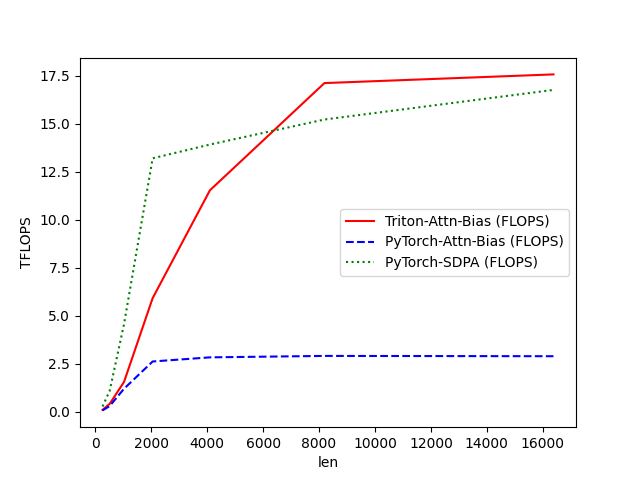
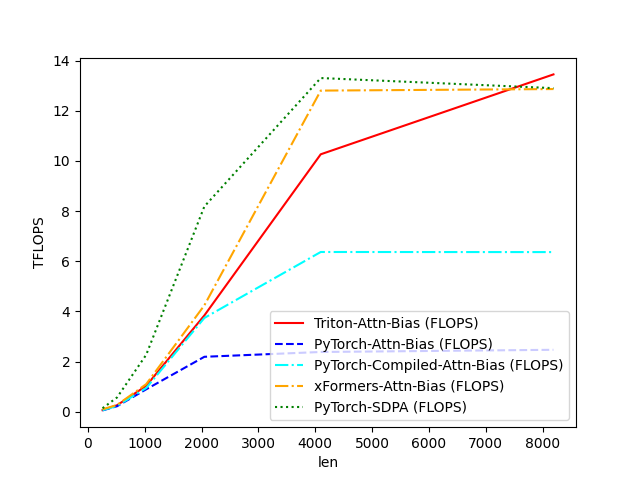
Add benchmarks for PyTorch compiled and xFormers

diff --git a/results.html b/results.html
@@ -1,2 +1,4 @@
 <html><body>
 <image src="attention-comparison-batch2-head4-d32-fwd.png"/>
+<image src="attention-comparison-batch2-head4-d32-bwd.png"/>
+</body></html>

diff --git a/main.py b/main.py
@@ -12,7 +12,8 @@ import torch
 import triton
 
 from config import test_configs
-from attention_func import attention_triton, attention_torch, attention_sdpa
+from attention_func import attention_triton, attention_torch, attention_torch_compiled, attention_sdpa, \
+    attention_xformers
 
 
 @triton.testing.perf_report(test_configs)
@@ -74,6 +75,28 @@ def bench_attention_comparison(BATCH, H, len, HEAD_DIM, mode, provider, device="
         v.grad = None
         bias.grad = None
 
+    def forward_backward_torch_compiled():
+        out = attention_torch_compiled(q, k, v, sm_scale, bias)
+        loss = (0 - out.sum())
+        loss.backward()
+        torch.cuda.synchronize()
+        # Reset gradients for next iteration
+        q.grad = None
+        k.grad = None
+        v.grad = None
+        bias.grad = None
+
+    def forward_backward_xformers():
+        out = attention_xformers(q, k, v, sm_scale, bias)
+        loss = (0 - out.sum())
+        loss.backward()
+        torch.cuda.synchronize()
+        # Reset gradients for next iteration
+        q.grad = None
+        k.grad = None
+        v.grad = None
+        bias.grad = None
+
     def forward_backward_sdpa():
         out = attention_sdpa(q, k, v, sm_scale, bias)
         loss = (0 - out.sum())
@@ -90,15 +113,29 @@ def bench_attention_comparison(BATCH, H, len, HEAD_DIM, mode, provider, device="
             fn = lambda: attention_triton(q, k, v, bias, False, sm_scale)
         elif provider == "torch-attn-bias":
             fn = lambda: attention_torch(q, k, v, sm_scale, bias)
-        else:  # provider == "torch-sdpa"
+        elif provider == "torch-compiled-attn-bias":
+            fn = lambda: attention_torch_compiled(q, k, v, sm_scale, bias)
+        elif provider == "xformers-attn-bias":
+            fn = lambda: attention_xformers(q, k, v, sm_scale, bias)
+        elif provider == "torch-sdpa":
             fn = lambda: attention_sdpa(q, k, v, sm_scale, bias)
-    else:  # mode == "bwd"
+        else:
+            raise Exception("Invalid provider \"{}\"".format(provider))
+    elif mode == "bwd":
         if provider == "triton-attn-bias":
             fn = forward_backward_triton
         elif provider == "torch-attn-bias":
             fn = forward_backward_torch
-        else:  # provider == "torch-sdpa"
+        elif provider == "torch-compiled-attn-bias":
+            fn = forward_backward_torch_compiled
+        elif provider == "xformers-attn-bias":
+            fn = forward_backward_xformers
+        elif provider == "torch-sdpa":
             fn = forward_backward_sdpa
+        else:
+            raise Exception("Invalid provider \"{}\"".format(provider))
+    else:
+        raise Exception("Invalid mode \"{}\"".format(mode))
 
     # Run benchmark
     ms = triton.testing.do_bench(fn)
@@ -150,10 +187,14 @@ def test_attention_correctness():
     # Compute outputs
     o_flash = attention_triton(q, k, v, bias, causal, softmax_scale)
     o_torch = attention_torch(q, k, v, softmax_scale, bias)
+    o_torch_compiled = attention_torch_compiled(q, k, v, softmax_scale, bias)
+    o_xformers = attention_xformers(q, k, v, softmax_scale, bias)
     o_sdpa = attention_sdpa(q, k, v, softmax_scale, bias)
 
     # Compute max forward errors
     max_forward_error_torch = torch.abs(o_flash - o_torch).max().item()
+    max_forward_error_torch_compiled = torch.abs(o_flash - o_torch_compiled).max().item()
+    max_forward_error_xformers = torch.abs(o_flash - o_xformers).max().item()
     max_forward_error_sdpa = torch.abs(o_flash - o_sdpa).max().item()
 
     # Compute loss and backpropagate for flash attention
@@ -174,6 +215,26 @@ def test_attention_correctness():
     for x in [q, k, v, bias]:
         x.grad = None
 
+    # Compute loss and backpropagate for torch compiled attention
+    loss_torch_compiled = (0 - o_torch_compiled.sum())
+    loss_torch_compiled.backward()
+    dq_torch_compiled, dk_torch_compiled, dv_torch_compiled, dbias_torch_compiled \
+        = [x.grad.clone() for x in [q, k, v, bias]]
+
+    # Reset gradients
+    for x in [q, k, v, bias]:
+        x.grad = None
+
+    # Compute loss and backpropagate for xformers attention
+    loss_xformers = (0 - o_xformers.sum())
+    loss_xformers.backward()
+    dq_torch_xformers, dk_torch_xformers, dv_torch_xformers, dbias_torch_xformers \
+        = [x.grad.clone() for x in [q, k, v, bias]]
+
+    # Reset gradients
+    for x in [q, k, v, bias]:
+        x.grad = None
+
     # Compute loss and backpropagate for SDPA
     loss_sdpa = (0 - o_sdpa.sum())
     loss_sdpa.backward()
@@ -187,6 +248,22 @@ def test_attention_correctness():
         "bias": torch.abs(dbias_flash - dbias_torch).max().item(),
     }
 
+    # Compute max gradient errors against torch compiled implementation
+    max_grad_errors_torch_compiled = {
+        "q": torch.abs(dq_flash - dq_torch_compiled).max().item(),
+        "k": torch.abs(dk_flash - dk_torch_compiled).max().item(),
+        "v": torch.abs(dv_flash - dv_torch_compiled).max().item(),
+        "bias": torch.abs(dbias_flash - dbias_torch_compiled).max().item(),
+    }
+
+    # Compute max gradient errors against xformers implementation
+    max_grad_errors_xformers = {
+        "q": torch.abs(dq_flash - dq_torch_xformers).max().item(),
+        "k": torch.abs(dk_flash - dk_torch_xformers).max().item(),
+        "v": torch.abs(dv_flash - dv_torch_xformers).max().item(),
+        "bias": torch.abs(dbias_flash - dbias_torch_xformers).max().item(),
+    }
+
     # Compute max gradient errors against SDPA implementation
     max_grad_errors_sdpa = {
         "q": torch.abs(dq_flash - dq_sdpa).max().item(),
@@ -197,10 +274,22 @@ def test_attention_correctness():
 
     # Print max errors
     print(f"✅ Max Forward Error vs Torch: {max_forward_error_torch:.6e}")
+    print(f"✅ Max Forward Error vs Torch Compiled: {max_forward_error_torch_compiled:.6e}")
+    print(f"✅ Max Forward Error vs xFormers: {max_forward_error_xformers:.6e}")
     print(f"✅ Max Forward Error vs SDPA: {max_forward_error_sdpa:.6e}")
+
     print(f"✅ Max Gradient Errors vs Torch:")
     for param, err in max_grad_errors_torch.items():
         print(f"   {param.upper()} : {err:.6e}")
+
+    print(f"✅ Max Gradient Errors vs Torch Compiled:")
+    for param, err in max_grad_errors_torch_compiled.items():
+        print(f"   {param.upper()} : {err:.6e}")
+
+    print(f"✅ Max Gradient Errors vs xFormers:")
+    for param, err in max_grad_errors_xformers.items():
+        print(f"   {param.upper()} : {err:.6e}")
+
     print(f"✅ Max Gradient Errors vs SDPA:")
     for param, err in max_grad_errors_sdpa.items():
         print(f"   {param.upper()} : {err:.6e}")

diff --git a/attention_func.py b/attention_func.py
@@ -1,10 +1,12 @@
 """
-Attention functions for triton, torch and sdpa
+Attention functions for triton, torch torch-compiled, xformers, and sdpa
 
 Refactor from the original project from [https://github.com/pengzhangzhi]
 
 @author: Zhangzhi Peng, Xuan Chen
 """
+import torch
+import xformers.ops as xops
 
 from flash_attn_w_bias import FlashAttnFunc
 
@@ -41,6 +43,70 @@ def attention_torch(q, k, v, softmax_scale, bias=None):
     output = torch.einsum("bqnk,bknh->bqnh", attn_probs, v)
 
     return output
+
+
+@torch.compile
+def attention_torch_compiled(q, k, v, softmax_scale, bias=None):
+    """
+    Implements torch compiled scaled dot-product attention using PyTorch.
+
+    Author:
+        Xuan Chen (Apr 15, 2025), referenced from: attention_torch()
+
+    Args:
+        q: Query tensor of shape (batch_size, seqlen_q, nheads, headdim)
+        k: Key tensor of shape (batch_size, seqlen_k, nheads, headdim)
+        v: Value tensor of shape (batch_size, seqlen_k, nheads, headdim)
+        softmax_scale: Scalar for softmax normalization (default: 1/sqrt(headdim))
+        bias: Optional bias tensor, shape (batch, nheads, seqlen_q, seqlen_k)
+
+    Returns:
+        Output tensor of shape (batch_size, seqlen_q, nheads, headdim)
+    """
+    q = q.permute(0, 2, 1, 3)
+    k = k.permute(0, 2, 3, 1)
+    v = v.permute(0, 2, 1, 3)
+
+    # Compute scaled dot-product attention scores
+    attn_scores = torch.matmul(q, k)
+    # Apply softmax scaling
+    attn_scores *= softmax_scale
+
+    # Apply bias if provided
+    if bias is not None:
+        attn_scores += bias
+
+    # Apply softmax along key dimension
+    attn_probs = torch.softmax(attn_scores, dim=-1)
+
+    # Compute output by weighted sum of values
+    output = torch.matmul(attn_probs, v)
+    output = output.permute(0, 2, 1, 3)
+
+    return output
+
+
+def attention_xformers(q, k, v, softmax_scale, bias=None):
+    """
+    Implements torch compiled scaled dot-product attention using xFormers.
+
+    Args:
+        q: Query tensor of shape (batch_size, seqlen_q, nheads, headdim)
+        k: Key tensor of shape (batch_size, seqlen_k, nheads, headdim)
+        v: Value tensor of shape (batch_size, seqlen_k, nheads, headdim)
+        softmax_scale: Scalar for softmax normalization (default: 1/sqrt(headdim))
+        bias: Optional bias tensor, shape (batch, nheads, seqlen_q, seqlen_k)
+
+    Returns:
+        Output tensor of shape (batch_size, seqlen_q, nheads, headdim)
+    """
+    return xops.memory_efficient_attention(
+        query=q,
+        key=k,
+        value=v,
+        attn_bias=bias,
+        scale=softmax_scale
+    )
 
 
 def attention_sdpa(q, k, v, softmax_scale, bias=None):

diff --git a/config.py b/config.py
@@ -24,9 +24,27 @@ test_configs = [
         x_names=["len"],
         x_vals=list(2 ** i for i in range(8, 15)),
         line_arg="provider",
-        line_vals=["triton-attn-bias", "torch-attn-bias", "torch-sdpa"],
-        line_names=["Triton-Attn-Bias (FLOPS)", "PyTorch-Attn-Bias (FLOPS)", "PyTorch-SDPA (FLOPS)"],
-        styles=[("red", "-"), ("blue", "--"), ("green", ":")],
+        line_vals=[
+            "triton-attn-bias",
+            "torch-attn-bias",
+            "torch-compiled-attn-bias",
+            "xformers-attn-bias",
+            "torch-sdpa"
+        ],
+        line_names=[
+            "Triton-Attn-Bias (FLOPS)",
+            "PyTorch-Attn-Bias (FLOPS)",
+            "PyTorch-Compiled-Attn-Bias (FLOPS)",
+            "xFormers-Attn-Bias (FLOPS)",
+            "PyTorch-SDPA (FLOPS)"
+        ],
+        styles=[
+            ("red", "-"),
+            ("blue", "--"),
+            ("cyan", "-."),
+            ("orange", "-."),
+            ("green", ":")
+        ],
         ylabel="TFLOPS",  # Changed from Time (ms) to TFLOPS
         plot_name=f"attention-comparison-batch{BATCH}-head{N_HEADS}-d{HEAD_DIM}-{mode}",
         args={

diff --git a/README.md b/README.md
@@ -17,6 +17,7 @@ A Triton implementation of Flash Attention with differential bias support. This 
 - Python 
 - PyTorch
 - Triton
+- xFormers
 - CUDA-capable GPU (tested on A100)
 
 ## Installation
@@ -29,7 +30,7 @@ pip install torch triton
 
 ```python
 import torch
-from flash_attn_w_bias import attention_triton
+from attention_func import attention_triton
 
 # Create input tensors
 batch_size, seq_len, n_heads, head_dim = 2, 1024, 8, 64
